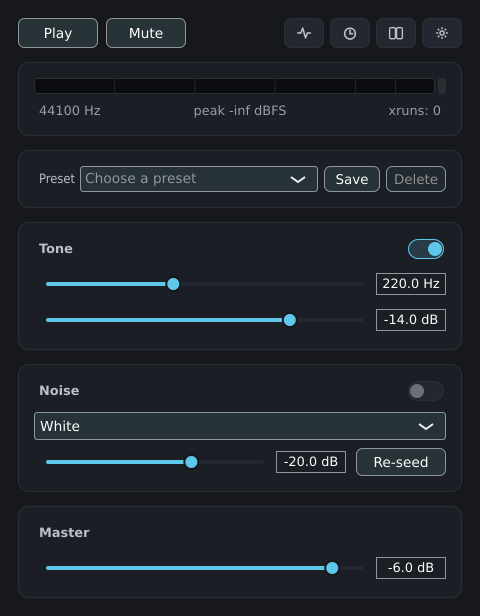
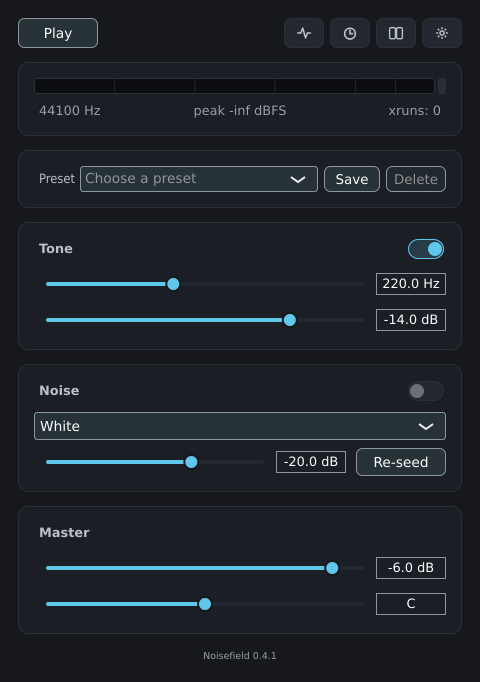
docs: lead with the disclaimer, add a volume warning, refresh screenshots
Swap the README's opening paragraph order so the "not a medical
device" disclaimer comes before the personal-story paragraph, and add
a caution about raising volume gradually to protect hearing.

Regenerate main.png and main-scope.png to match the M5 UI changes: no
Mute button, the new Master Balance fader, and the version footer.
main-scope.png now also shows the session timer panel expanded
alongside the oscilloscope, and its caption mentions the Balance
fader.

diff --git a/README.md b/README.md
@@ -9,10 +9,11 @@ A native Linux desktop app to generate tones across a frequency range and mix di
 types of noise (white, pink, brown, blue, violet, grey) into layered sound fields. The
 [user guide](docs/guide.md) explains what each control does.
 
-I have tinnitus, and playing certain tones and noise blends through this app relieves the
-sensation for me at times — that is why it exists.
-
 **Disclaimer: this is a personal tool, not a medical device.**
+
+I have tinnitus, and playing certain tones and noise blends through this app relieves the
+sensation for me at times — that is why it exists. Start at a low volume and raise it
+gradually: tones and noise played too loud, for too long, can damage your hearing.
 
 Noisefield is built 100% AI-assisted.
 
@@ -45,9 +46,11 @@ the VST3 / LV2 / CLAP plugins. To build from source instead, see below.
 </p>
 
 <p align="center">
-  <img src="docs/images/main-scope.png" alt="Noisefield with the oscilloscope expanded" width="440"><br>
+  <img src="docs/images/main-scope.png" alt="Noisefield with the oscilloscope and session timer expanded" width="440"><br>
   <em>The waveform icon expands a master-output oscilloscope in place, aligned to a rising
-  zero-crossing; the window resizes to fit.</em>
+  zero-crossing, and the clock icon expands the session timer (shown here too); either panel
+  resizes the window to fit. Master also has a <strong>Balance</strong> fader, centred by
+  default, that shifts the output between the left and right speakers.</em>
 </p>
 
 <p align="center">
